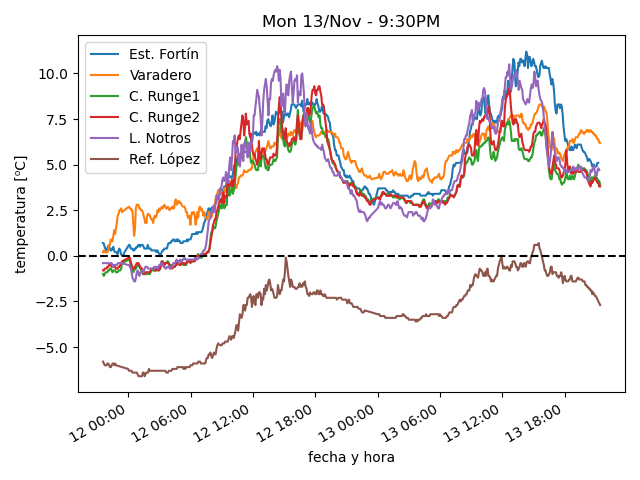
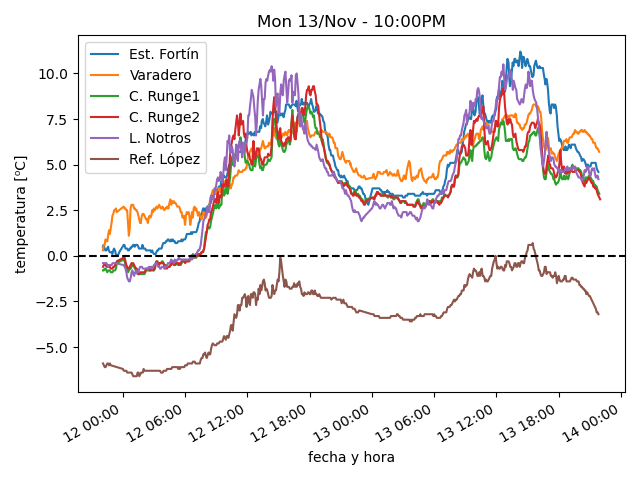
actualiza datos

diff --git a/estaciones/estacion6.html b/estaciones/estacion6.html
@@ -18,27 +18,27 @@
     </tr>
     <tr>
      <td class="stats_data">
-      9:25PM
+      9:50PM
      </td>
     </tr>
     <tr>
      <td class="stats_data">
-      -2.7⁰C
+      -3.2⁰C
      </td>
     </tr>
     <tr>
      <td class="stats_data">
-      -3.5⁰C
+      -4.2⁰C
      </td>
     </tr>
     <tr>
      <td class="stats_data">
-      94.0%
+      93.0%
      </td>
     </tr>
     <tr>
      <td class="stats_data">
-      1016.22hPa
+      1015.17hPa
      </td>
     </tr>
     <tr>
@@ -58,7 +58,7 @@
     </tr>
     <tr>
      <td class="stats_data">
-      877.0 W/m²
+      869.0 W/m²
      </td>
     </tr>
    </tbody>

diff --git a/estaciones/estacion2.html b/estaciones/estacion2.html
@@ -18,32 +18,32 @@
     </tr>
     <tr>
      <td class="stats_data">
-      9:24PM
+      9:54PM
      </td>
     </tr>
     <tr>
      <td class="stats_data">
-      6.2⁰C
+      5.7⁰C
      </td>
     </tr>
     <tr>
      <td class="stats_data">
-      2.9⁰C
+      2.3⁰C
      </td>
     </tr>
     <tr>
      <td class="stats_data">
-      79.3%
+      78.9%
      </td>
     </tr>
     <tr>
      <td class="stats_data">
-      1017.91hPa
+      1018.42hPa
      </td>
     </tr>
     <tr>
      <td class="stats_data">
-      44.2/54.0 km/hr NW
+      31.3/41.7 km/hr NW
      </td>
     </tr>
     <tr>

diff --git a/estaciones/estacion3.html b/estaciones/estacion3.html
@@ -18,32 +18,32 @@
     </tr>
     <tr>
      <td class="stats_data">
-      9:24PM
+      9:54PM
      </td>
     </tr>
     <tr>
      <td class="stats_data">
-      3.9⁰C
+      3.4⁰C
      </td>
     </tr>
     <tr>
      <td class="stats_data">
-      1.6⁰C
+      0.5⁰C
      </td>
     </tr>
     <tr>
      <td class="stats_data">
-      84.8%
+      81.7%
      </td>
     </tr>
     <tr>
      <td class="stats_data">
-      1003.22hPa
+      1003.52hPa
      </td>
     </tr>
     <tr>
      <td class="stats_data">
-      11.6/18.0 km/hr W
+      12.7/18.6 km/hr W
      </td>
     </tr>
     <tr>

diff --git a/estaciones/estacion5.html b/estaciones/estacion5.html
@@ -18,32 +18,32 @@
     </tr>
     <tr>
      <td class="stats_data">
-      9:20PM
+      9:50PM
      </td>
     </tr>
     <tr>
      <td class="stats_data">
-      4.7⁰C
+      4.2⁰C
      </td>
     </tr>
     <tr>
      <td class="stats_data">
-      -0.8⁰C
+      -1.1⁰C
      </td>
     </tr>
     <tr>
      <td class="stats_data">
-      67.0%
+      69.0%
      </td>
     </tr>
     <tr>
      <td class="stats_data">
-      1015.88hPa
+      1016.7hPa
      </td>
     </tr>
     <tr>
      <td class="stats_data">
-      0.0/3.5 km/hr N
+      0.0/2.6 km/hr N
      </td>
     </tr>
     <tr>

diff --git a/estaciones/estacion1.html b/estaciones/estacion1.html
@@ -18,17 +18,17 @@
     </tr>
     <tr>
      <td class="stats_data">
-      9:13PM
+      9:49PM
      </td>
     </tr>
     <tr>
      <td class="stats_data">
-      5.1⁰C
+      4.6⁰C
      </td>
     </tr>
     <tr>
      <td class="stats_data">
-      0.3⁰C
+      -0.2⁰C
      </td>
     </tr>
     <tr>
@@ -38,12 +38,12 @@
     </tr>
     <tr>
      <td class="stats_data">
-      1013.21hPa
+      1013.55hPa
      </td>
     </tr>
     <tr>
      <td class="stats_data">
-      20.9/29.0 km/hr W
+      14.1/29.5 km/hr W
      </td>
     </tr>
     <tr>

diff --git a/estaciones/estacion4.html b/estaciones/estacion4.html
@@ -18,22 +18,22 @@
     </tr>
     <tr>
      <td class="stats_data">
-      9:24PM
+      9:59PM
      </td>
     </tr>
     <tr>
      <td class="stats_data">
-      3.8⁰C
+      3.1⁰C
      </td>
     </tr>
     <tr>
      <td class="stats_data">
-      1.1⁰C
+      -0.1⁰C
      </td>
     </tr>
     <tr>
      <td class="stats_data">
-      82.7%
+      79.3%
      </td>
     </tr>
     <tr>
@@ -43,7 +43,7 @@
     </tr>
     <tr>
      <td class="stats_data">
-      5.6/9.9 km/hr SW
+      4.7/7.8 km/hr SW
      </td>
     </tr>
     <tr>
